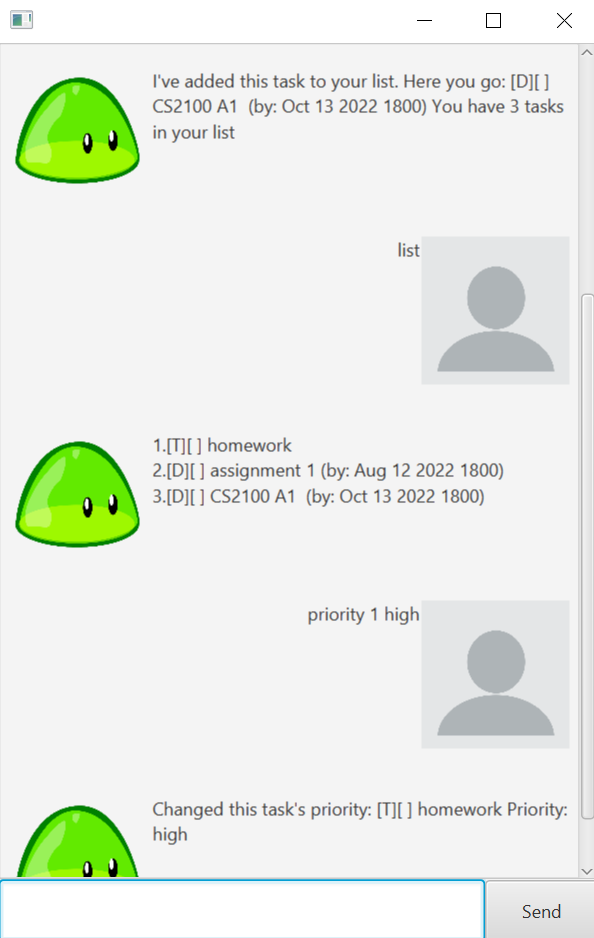
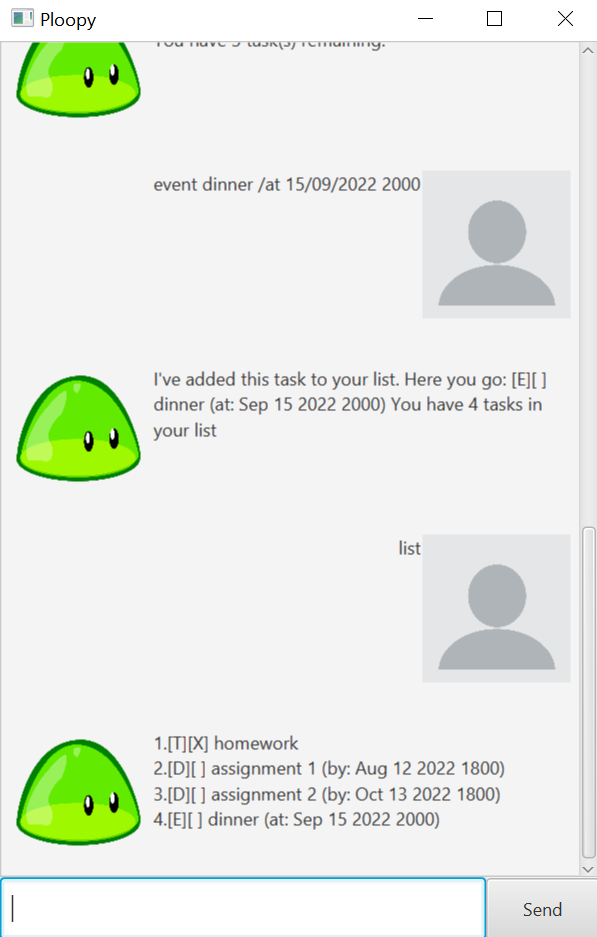
Change Ui.png and add title to GUI window

diff --git a/src/main/java/ploopy/ui/Main.java b/src/main/java/ploopy/ui/Main.java
@@ -22,6 +22,7 @@ public class Main extends Application {
             FXMLLoader fxmlLoader = new FXMLLoader(Main.class.getResource("/view/MainWindow.fxml"));
             AnchorPane ap = fxmlLoader.load();
             Scene scene = new Scene(ap);
+            stage.setTitle("Ploopy");
             stage.setScene(scene);
             fxmlLoader.<MainWindow>getController().setPloopy(ploopy);
             stage.show();
